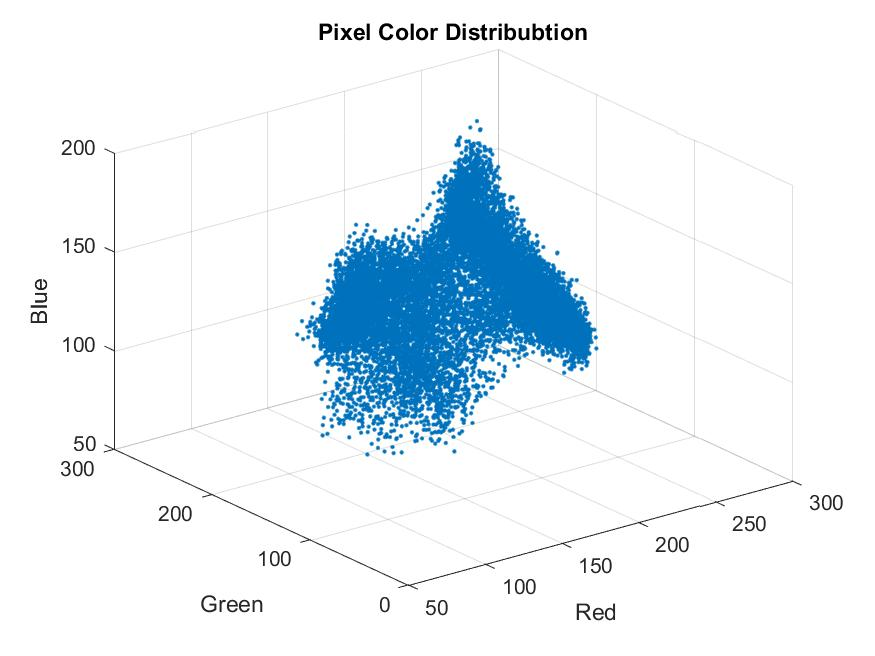
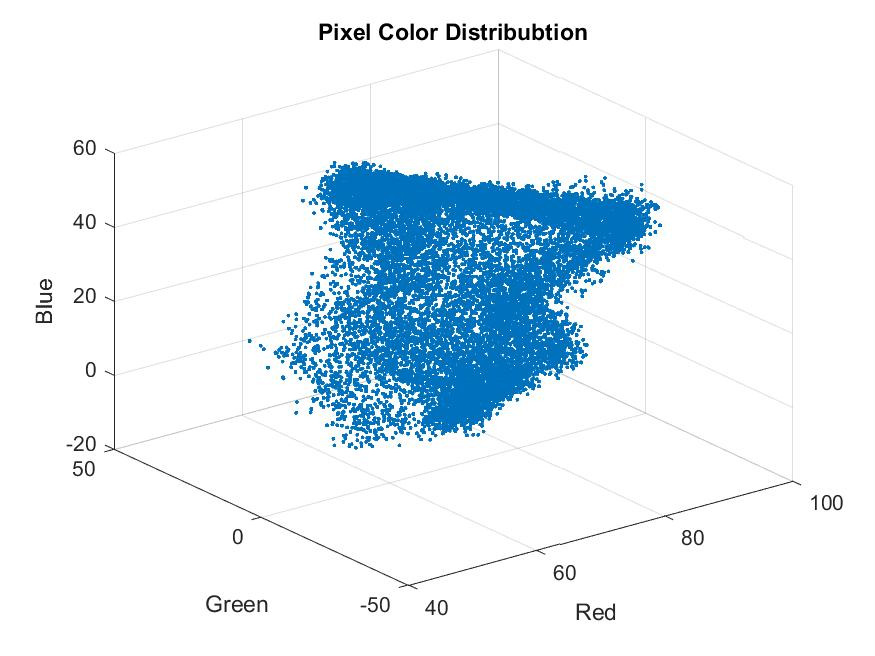
Color space changed to LAB and works well for green buoy

diff --git a/P1_submission/ColorSeg/Scripts/detecteBuoy.m b/P1_submission/ColorSeg/Scripts/detecteBuoy.m
@@ -1,4 +1,4 @@
- function [segI, loc] = detecteBuoy(I,mu,sig,thre)
+ function [segI,loc] = detecteBuoy(I,mu,sig,thre)
 % %%%%%%%%%%%%%%%%%%%%%%%%%%%%%%%%%%%%%%%%%%
 % % Hard code your learned model parameters here
 % mu = [146.191022661243;142.556798373039;64.6589192330041];
@@ -6,16 +6,17 @@
 % thre = 1e-6;
 %%%%%%%%%%%%%%%%%%%%%%%%%%%%%%%%%%%%%%%%%%
 % Find ball-color pixels using your model
+I=rgb2lab(I);
 mask=zeros(size(I,1),size(I,2));
-red=I(:,:,1);
-green=I(:,:,2);
-blue=I(:,:,3);
+hue=I(:,:,1);
+saturation=I(:,:,2);
+value=I(:,:,3);
 for i=1:size(I,1)
     for j=1:size(I,2)
-        x=[red(i,j) green(i,j) blue(i,j)]';
-%   mask(i,j)=exp(-0.5*(double(x)-mu)'*inv(sig)*(double(x)-mu))/(((2*pi)^3/2)*sqrt(det(sig)));
-        p=exp(-0.5*(double(x)-mu)'*inv(sig)*(double(x)-mu))/(((2*pi)^3/2)*sqrt(det(sig)));
-        if p >= thre
+        x=[hue(i,j) saturation(i,j) value(i,j)]';
+        mask(i,j)=exp(-0.5*(double(x)-mu)'*inv(sig)*(double(x)-mu))/(((2*pi)^3/2)*sqrt(det(sig)));
+%         p=exp(-0.5*(double(x)-mu)'*inv(sig)*(double(x)-mu))/(((2*pi)^3/2)*sqrt(det(sig)));
+        if mask(i,j) >= thre
             mask(i,j)=1;
         end
     end
@@ -26,12 +27,15 @@ end
 %   regionprops
 %%%%%%%%%%%%%%%%%%%%%%%%%%%%%%%%%%%%%%%%%%
 % Compute the location of the ball center
+% figure; imshow(mask);
 mask_biggest = false(size(mask));
-CC = bwconncomp(mask);
+CC = bwconncomp(imbinarize(mask));
 numPixels = cellfun(@numel,CC.PixelIdxList);
-[biggest,idx] = max(numPixels);
-mask_biggest(CC.PixelIdxList{idx}) = true;
+[mask_biggest,idx] = max(numPixels);
+mask(CC.PixelIdxList{idx}) = 1;
+figure; imshow(mask);
 S = regionprops(CC,'Centroid');
+% loc=0;
 loc = S(idx).Centroid;
-segI = imfill(mask_biggest);
+segI = imfill(mask,8,'holes');
 end

diff --git a/P1_submission/ColorSeg/Scripts/example_test.m b/P1_submission/ColorSeg/Scripts/example_test.m
@@ -9,11 +9,11 @@ for k=1:to
 end
 cd Scripts;
 for k=1:to
-    figure,imshow(image{k});
-    [segI, loc] = detecteBuoy(image{k},yellow_mu,yellow_sigma,1e-6);
-% % %     figure, imshow(segI); 
-% %     hold on; 
+    figure(1),imshow(image{k});
+    [segI,loc] = detecteBuoy(imgaussfilt(image{k},5),green_mu,green_sigma,1.55e-5);
+%     figure, imshow(segI); 
+    hold on; 
     plot(loc(1), loc(2), '+r','MarkerSize',10); 
-    disp('Press any key to continue. (Ctrl+c to exit)')
+%     disp('Press any key to continue. (Ctrl+c to exit)')
     pause(1/10);
 end

diff --git a/P1_submission/ColorSeg/Scripts/Part0/colorDistribution.m b/P1_submission/ColorSeg/Scripts/Part0/colorDistribution.m
@@ -10,6 +10,7 @@ SamplesG = [];
 for k=1:20
     % Load image
     I = imread(sprintf('%s/%03d.jpg',train,k));
+    I=rgb2lab(I);
     % You may consider other color space than RGB
     R = I(:,:,1);
     G = I(:,:,2);
